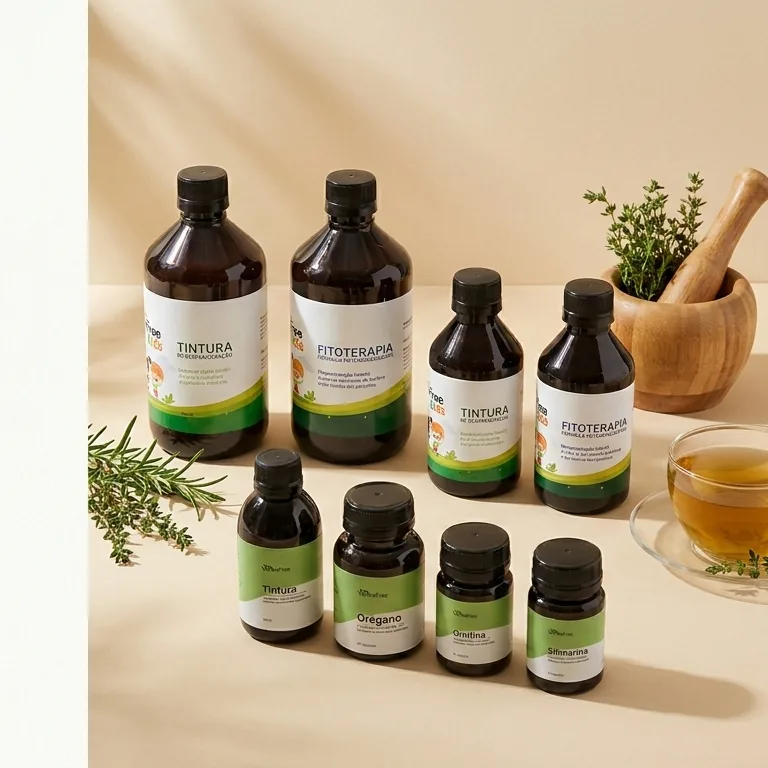
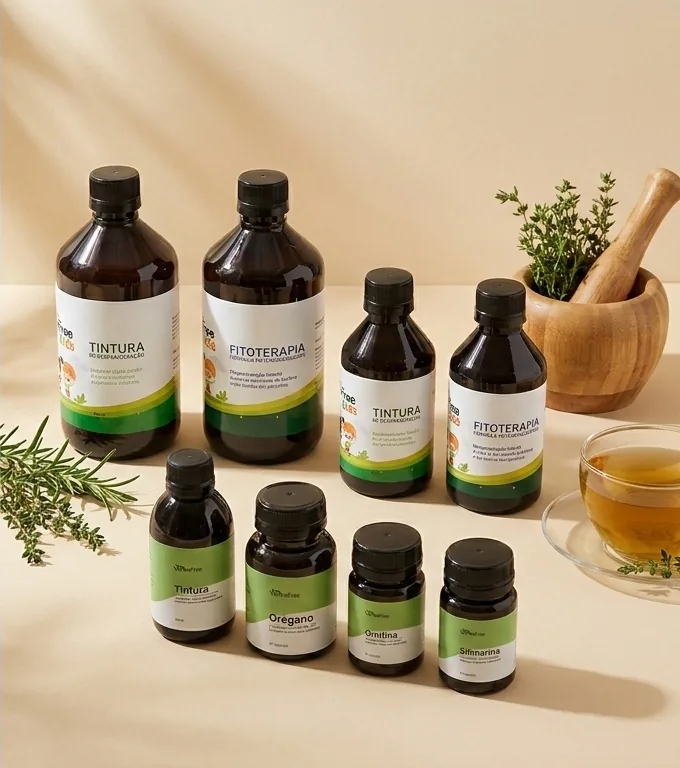
Bring the shop card into the first fold on mobile
Switches the hero photo to a wide 16:9 frame (source cropped to drop the
white left strip) and tightens mobile spacing so the Loja Oficial card
is fully visible at ~390x664, the Instagram in-app viewport.

Claude-Session: https://claude.ai/code/session_01NZLqN9EjHg4FaGvUvkLihQ

diff --git a/social-bio/index.html b/social-bio/index.html
@@ -69,8 +69,10 @@
     @media(max-width:850px){.shell{padding:26px 25px 20px}.layout{gap:35px}h1{font-size:38px}.portrait{height:275px}.shop{padding:23px}.shop h2{font-size:29px}.link-card{gap:10px;padding:14px}.masthead-note{font-size:9px;letter-spacing:1.5px}}
     @media(max-width:650px){.shell{max-width:480px;padding:25px 22px 20px}.masthead{justify-content:center;border:0;padding-bottom:25px}.logo{width:156px}.masthead-note{display:none}.layout{display:block;padding:0 0 24px}.eyebrow{text-align:center;margin-bottom:12px;font-size:9px;letter-spacing:2px}h1{text-align:center;font-size:36px;line-height:1.12;letter-spacing:-1.1px;max-width:390px;margin:0 auto}.intro{text-align:center;font-size:12px;line-height:1.75;max-width:310px;margin:14px auto 21px}.portrait{height:210px;border-radius:90px 90px 15px 15px;margin:0 3px}.portrait img{object-position:center 47%}.portrait figcaption{left:20px;right:20px;bottom:17px;font-size:8px;letter-spacing:1.4px}.portrait figcaption svg{width:20px;height:20px}.brand-foot{justify-content:center;font-size:10px;margin-top:12px}.navigation{margin-top:27px}.nav-heading{font-size:9px;margin-bottom:12px;letter-spacing:1.7px}.shop{padding:23px 24px 20px;border-radius:21px}.shop h2{font-size:30px;margin:19px 0 19px}.shop-top{font-size:9px}.shop-bottom{font-size:12px}.link-card{padding:15px 16px;min-height:80px;border-radius:16px;gap:12px}.card-copy strong{font-size:13px}.card-copy small{font-size:10px}.icon-wrap{width:32px}.footer{flex-direction:column;gap:0;text-align:center;padding-top:12px}.footer p{font-size:9px}.instagram{order:-1;min-height:40px;margin-bottom:5px}}
     @media(max-width:360px){.shell{padding-left:17px;padding-right:17px}h1{font-size:32px}.portrait{height:190px}.card-copy strong{font-size:12px}.card-copy small{font-size:10px}.shop h2{font-size:28px}}
-    .portrait{height:auto;aspect-ratio:1;border-radius:28px}
-    .portrait img{position:absolute;max-width:none;width:112.95%;height:112.95%;left:-12.95%;top:-6.475%;object-fit:fill;transform:none}
+    .portrait{height:auto;aspect-ratio:1376/768;border-radius:28px}
+    .portrait img{position:absolute;inset:0;width:100%;height:100%;object-fit:cover;object-position:center 42%;transform:none}
+    /* Mobile: compacta o topo para o card da loja aparecer na primeira dobra */
+    @media(max-width:650px){.shell{padding-top:18px}.masthead{padding-bottom:12px}.logo{width:128px}.eyebrow{margin-bottom:8px}h1{font-size:30px}.intro{line-height:1.6;margin:8px auto 14px}.portrait{border-radius:22px}.portrait figcaption{bottom:12px}.brand-foot{margin-top:8px}.navigation{margin-top:16px}.nav-heading{margin-bottom:8px}.shop{padding:16px 20px}.shop h2{font-size:24px;margin:10px 0 12px}}
     @media(prefers-reduced-motion:reduce){html{scroll-behavior:auto}*,*::before,*::after{transition:none!important;animation:none!important}}
   </style>
   <!-- Google tag (gtag.js): Google Ads, GA4 e tag do Merchant Center -->
@@ -123,7 +125,7 @@
         <h1 id="headline">Seu cuidado.<span>Em família.</span></h1>
         <p class="intro">Conheça os protocolos VermeFree e encontre o próximo passo no cuidado com a sua família.</p>
         <figure class="portrait">
-          <img src="assets/familia.webp" width="768" height="768" alt="Protocolos adulto e kids da VermeFree, com frascos dispostos ao lado de ervas" fetchpriority="high">
+          <img src="assets/familia.webp" width="1376" height="768" alt="Protocolos adulto e kids da VermeFree, com frascos dispostos ao lado de ervas" fetchpriority="high">
           <figcaption><span>Adulto · Kids · Família</span><svg viewBox="0 0 24 24" fill="none" stroke="currentColor" stroke-width="1.3" aria-hidden="true"><path d="M5 20c0-7 5-11 13-15M4 14C2 5 11 3 21 3c0 10-4 16-11 15M8 12l1 6 6-1"/></svg></figcaption>
         </figure>
         <p class="brand-foot"><svg viewBox="0 0 24 24" fill="none" stroke="currentColor" stroke-width="1.6" aria-hidden="true"><path d="m12 3 7 3v5c0 5-7 10-7 10S5 16 5 11V6l7-3Z"/><path d="m8 11 3 3 5-6"/></svg>Você está nos canais oficiais da VermeFree.</p>
